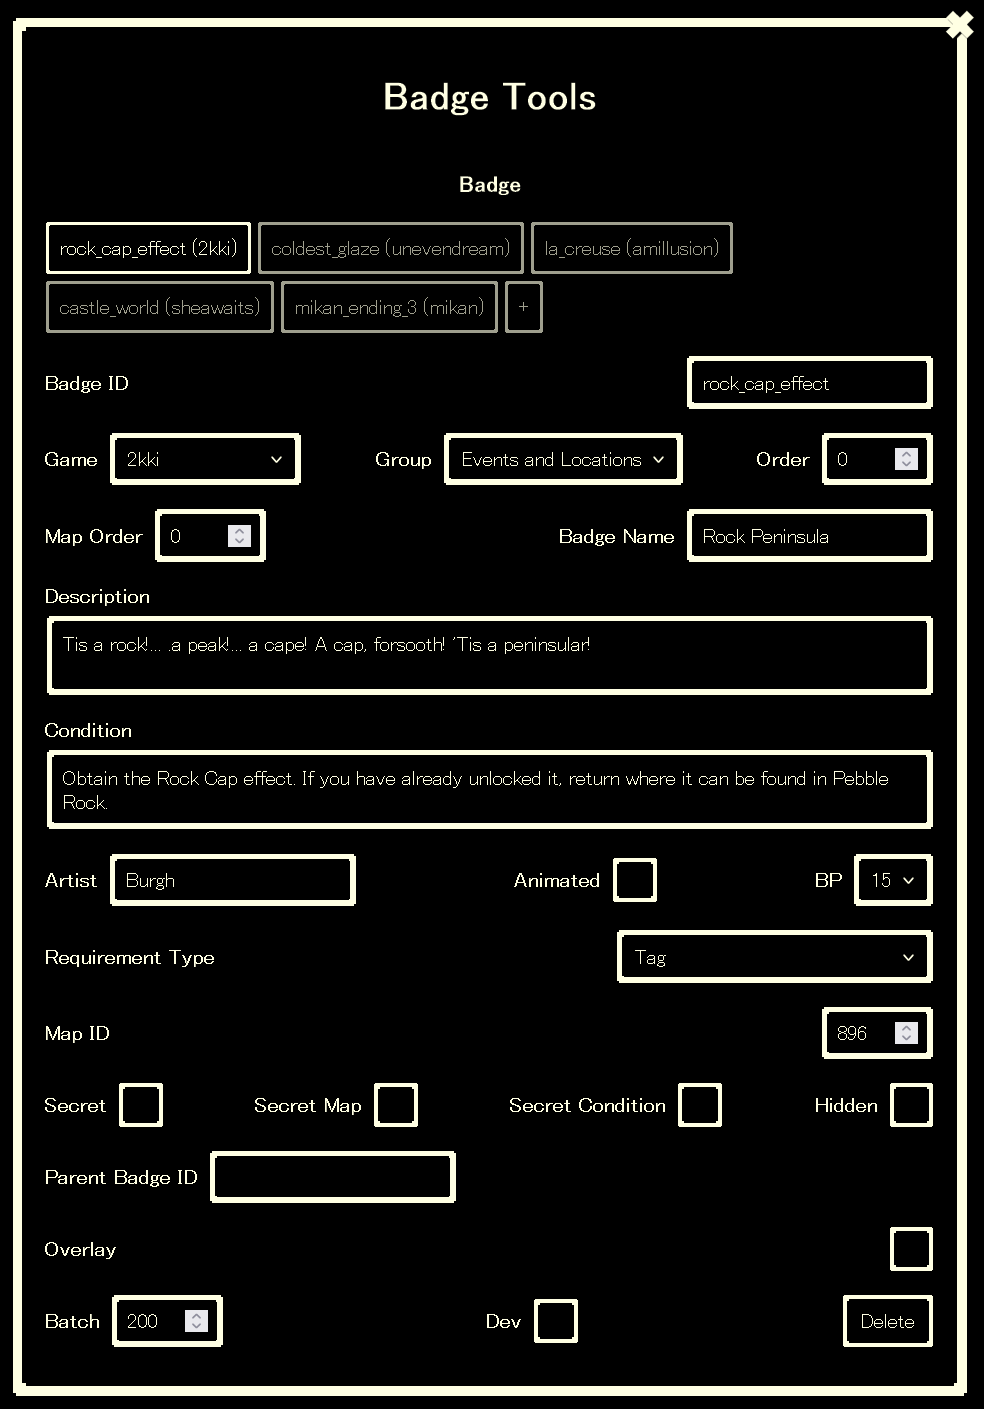
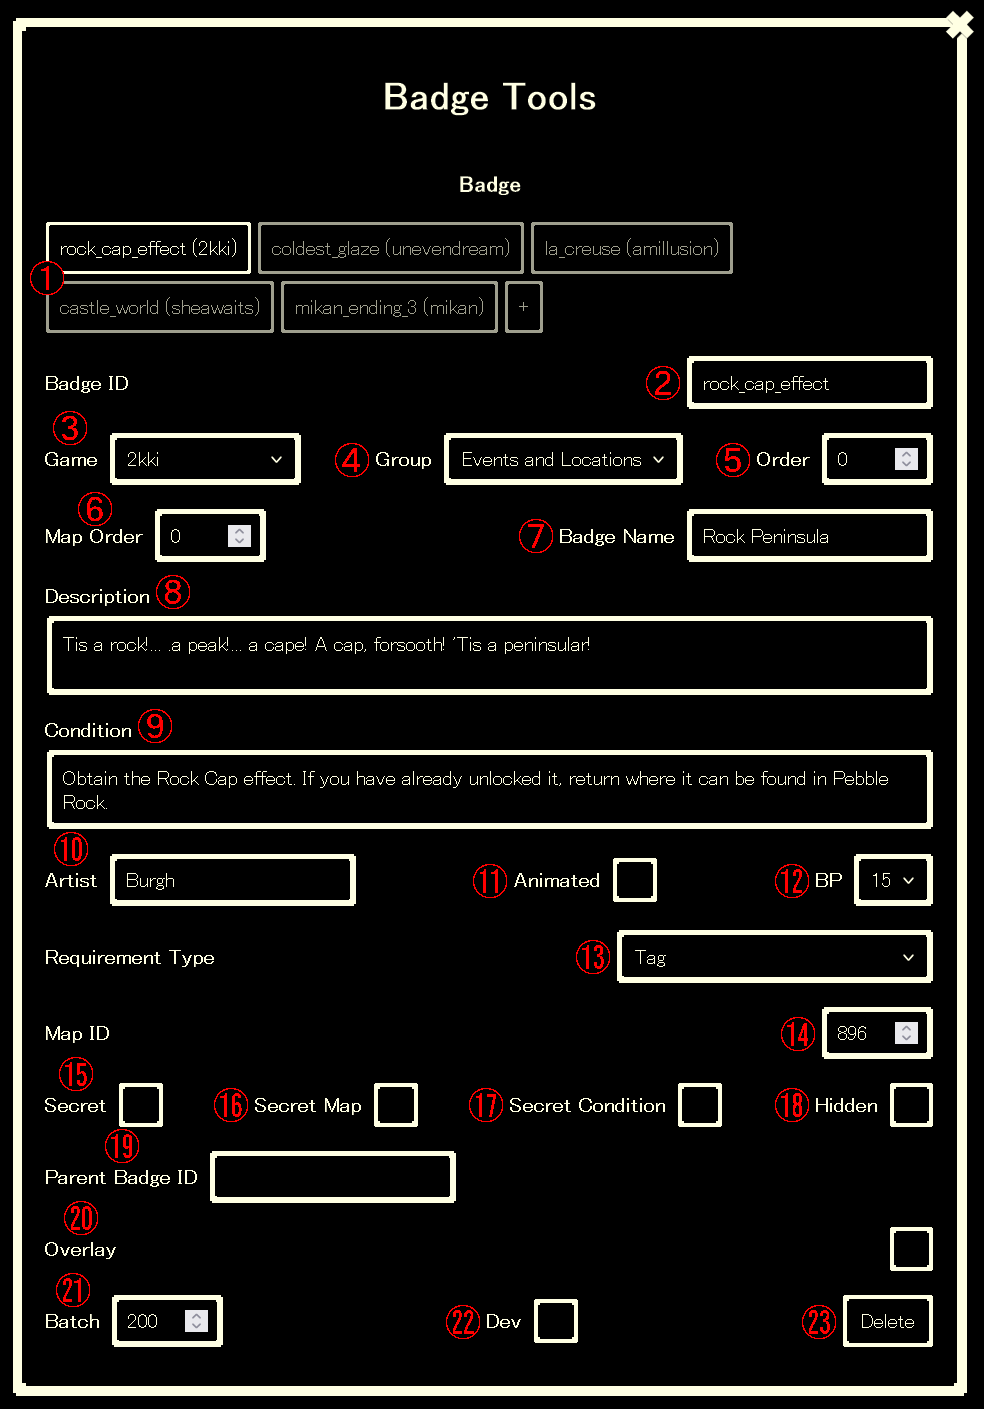
Update numbering

diff --git a/info/badge_tools.md b/info/badge_tools.md
@@ -72,27 +72,27 @@ Artists are automatically listed in the [credits](CREDITS.md) document through a
 - Multiple Tags with Alternatives - The badge will be awarded once each set of conditions has at least one of their tags fullfilled.
 - Time Trial - The badge will be awarded if the set condition is fullfilled in less time than the Required Int set.
 
-⑭ Tag Requirement Count (Multiple Tags only) - Number of conditions the player has to do before unlocking the badge. If set to 1, the number of conditions the badge has will not be displayed on-screen in the badge menu.
+- Tag Requirement Count (Multiple Tags only) - Number of conditions the player has to do before unlocking the badge. If set to 1, the number of conditions the badge has will not be displayed on-screen in the badge menu.
 
 ![The requirements tied to Multiple Tags.](/info/assets/badge_requirement_multiple.png)
 
-⑮ Required Int (Time Trial only) - Number of seconds the player has to obtain the badge.
+- Required Int (Time Trial only) - Number of seconds the player has to obtain the badge.
 
 ![The requirements tied to Time Trial.](/info/assets/badge_requirement_time_trial.png)
 
-⑯ Map ID - Map ID of the location that should be linked to the location displayed in the badge menu. This info is also used to order badges, so please set it even for badges where Secret Map is used. Note that it is possible to add arguments for the MapX and MapY point for a badges file, to point at a specific location point in a map, but it is not possible to set this feature through the Badge Tools menu, and requires to be manually added. In Yume 2kki, a world or part of a world may not be referenced the same way between the English and Japanese languages, not sharing the same boundary: as such, you may need to specify the exact location in some cases.
+⑭ Map ID - Map ID of the location that should be linked to the location displayed in the badge menu. This info is also used to order badges, so please set it even for badges where Secret Map is used. Note that it is possible to add arguments for the MapX and MapY point for a badges file, to point at a specific location point in a map, but it is not possible to set this feature through the Badge Tools menu, and requires to be manually added. In Yume 2kki, a world or part of a world may not be referenced the same way between the English and Japanese languages, not sharing the same boundary: as such, you may need to specify the exact location in some cases.
 
-⑰ Secret - If set, before being obtained, the name of the badge will be displayed as ???, its description and condition text will not be displayed, and the art of the badge will not be displayed.
+⑮ Secret - If set, before being obtained, the name of the badge will be displayed as ???, its description and condition text will not be displayed, and the art of the badge will not be displayed.
 
-⑱ Secret Map - Do not display the location of the badge in the badge menu, to use for badges where this info should not be visible, or for badges affecting multiple locations and where this info should not be visible.
+⑯ Secret Map - Do not display the location of the badge in the badge menu, to use for badges where this info should not be visible, or for badges affecting multiple locations and where this info should not be visible.
 
-⑲ Secret Condition - If set, before being obtained, the condition text of the badge will be displayed as ???.
+⑰ Secret Condition - If set, before being obtained, the condition text of the badge will be displayed as ???.
 
-⑳ Hidden - If set, the badge will not appear in the badge list before being obtained, will not take part of the badge rankings, and will have a different color for the background and name in the badge list. If this is used, make sure the badge in question grants 0 BP.
+⑱ Hidden - If set, the badge will not appear in the badge list before being obtained, will not take part of the badge rankings, and will have a different color for the background and name in the badge list. If this is used, make sure the badge in question grants 0 BP.
 
-㉑ Parent Badge ID - If a parent badge ID is specified, the badge will behave in a similar way than a Secret badge until the parent badge is unlocked. Must only be used for badges where you ARE forced to unlock the parent badge first (e.g. a badge for scoring 2000 points at NASU with a parent badge for scoring 1000 points in NASU makes sense, as it is impossible to get the 2000 points first. A badge for visiting a deeper world with a parent badge for visiting a world present before it is not doable, as the player could be logged off while visiting the location of the parent badge, thus only unlocking the child badge before the parent badge).
+⑲ Parent Badge ID - If a parent badge ID is specified, the badge will behave in a similar way than a Secret badge until the parent badge is unlocked. Must only be used for badges where you ARE forced to unlock the parent badge first (e.g. a badge for scoring 2000 points at NASU with a parent badge for scoring 1000 points in NASU makes sense, as it is impossible to get the 2000 points first. A badge for visiting a deeper world with a parent badge for visiting a world present before it is not doable, as the player could be logged off while visiting the location of the parent badge, thus only unlocking the child badge before the parent badge).
 
-㉒ Overlay - If a badge is set to use an overlay, several options are available.
+⑳ Overlay - If a badge is set to use an overlay, several options are available.
 
 ![The various options available for Overlay.](/info/assets/badge_overlay.png)
 
@@ -104,11 +104,11 @@ Artists are automatically listed in the [credits](CREDITS.md) document through a
 
 If you check the data of an existing badge using an overlay (e.g. Yume Nikki ending badge, Badge Amulet), you will notice the overlay parameter is just assigned to a number. This number is the result of adding the value of the parameters together, where Gradient = +1, Multiply = +2, Mask = +4, Dual = +8, and Location = +16.
 
-㉓ Batch - Badges will not be present in the badge list for non-developers account if the selected batch has not yet been reached. For reference, batch 195 is on Friday, January 2nd, 2026 at 9PM UTC. Batch 196 is on Friday, January 9th, 2026, batch 197 on Friday, January 16th, 2026, and so on. Usually, badges are added by group of 16 for each week, but may be subject to changes depending on who can implement them, how they want to implement them, etc.
+㉑ Batch - Badges will not be present in the badge list for non-developers account if the selected batch has not yet been reached. For reference, batch 195 is on Friday, January 2nd, 2026 at 9PM UTC. Batch 196 is on Friday, January 9th, 2026, batch 197 on Friday, January 16th, 2026, and so on. Usually, badges are added by group of 16 for each week, but may be subject to changes depending on who can implement them, how they want to implement them, etc.
 
-㉔ Dev - If set, the badge will not appear in the badge list and will not be able to be obtained outside of developer accounts.
+㉒ Dev - If set, the badge will not appear in the badge list and will not be able to be obtained outside of developer accounts.
 
-㉕ Delete - Delete the selected badge.
+㉓ Delete - Delete the selected badge.
 
 
 ### Condition
@@ -179,7 +179,7 @@ Some variable IDs are not edited by the game itself, but are used by this system
 - Default - Use solely the map, switch or variable set.
 - Previous Map ID - Triggers the condition if the previous map the player visited corresponds to the previous map selected. The ID of the map must use 4 digits (e.g. 0009, 0011, 0123, 1640), even if the ID is less than 1000, otherwise the trigger will not work. Yume 2kki internally tracks the previous map ID in the variable 99, which can alternatively be used if a different trigger is needed, or if the game changes quickly the location between different maps which could be incorrectly reflected through this option.
 - Teleport - Triggers if the player is teleported and that the other set conditions are met.
-- Coordinates - If set as the trigger, the Map Coords argument will automatically be set here.
+- Coordinates - If set as the trigger, the Map Coords argument will automatically be set here. As the game will check if the coordinates are edited, this means that a badge for doing an action while standing somewhere specifically will not work (e.g. if you want to have a badge for using the action of an effect somewhere specific in a map, do not use this as the Trigger option as the game will not check the trigger unless you move).
 - Picture - Triggers the condition if a picture with the corresponding name is displayed on-screen. Do not use this setting if the asset were to be used as part of another unrelated event in the map (e.g. asset preloading).
 - Event Collision - Triggers the condition if the player enters in collision with the selected event ID. If nothing happens when entering in collision with the event (no script executed), then the trigger will not work. Several event IDs can be specified for a single condition, in which case the condition will be triggered if any of the selected events was collided. If the event is able to be interacted with to trigger the exact same action, then the badge should also set to be triggered as part of an Event Interaction.
 - Event Interaction - Triggers the condition if the player interacts with the selected event ID. If nothing happens when interacting with the event (no script executed), then the trigger will not work. Several event IDs can be specified for a single condition, in which case the condition will be triggered if any of the selected events was interacted with.
